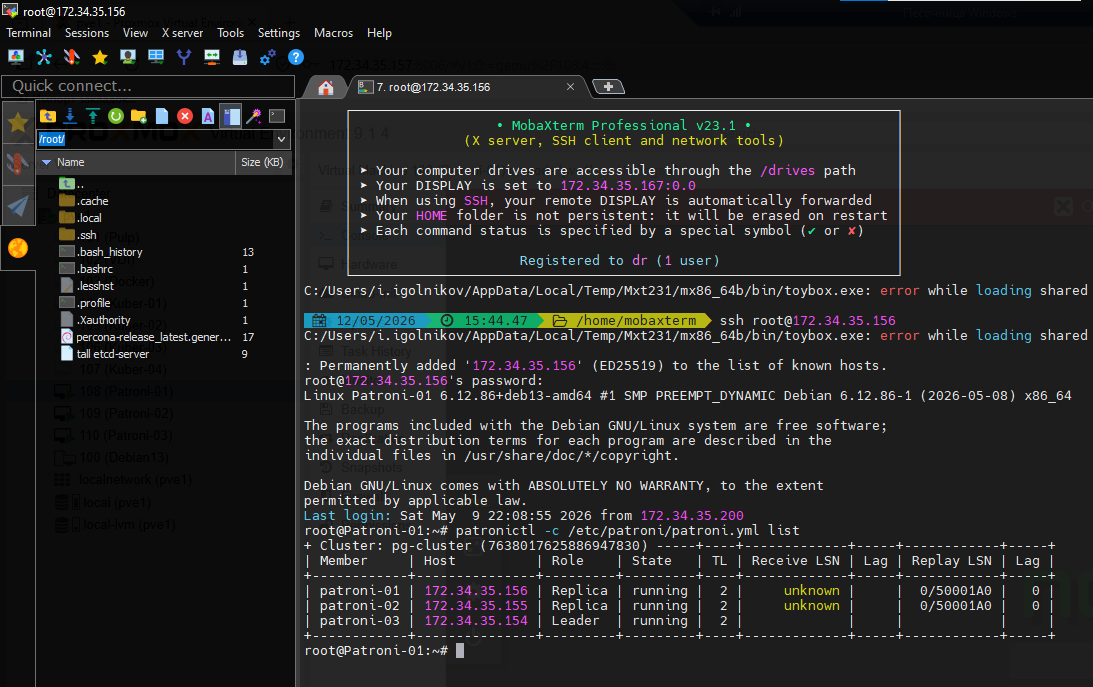
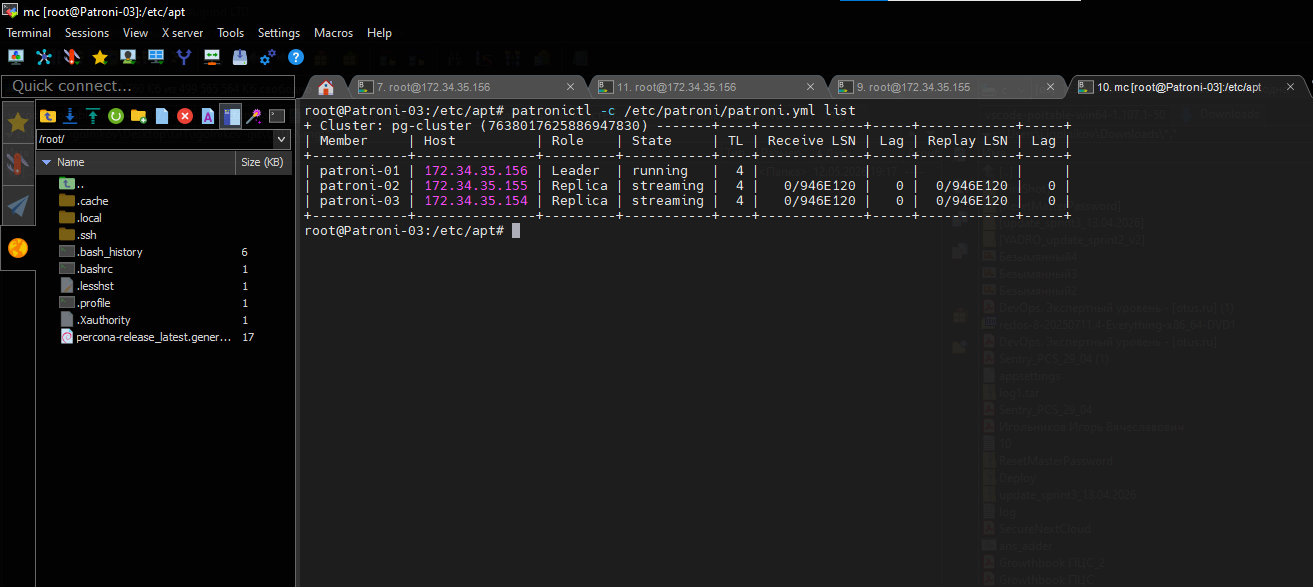
tutorial-01

diff --git a/Введение в PostgreSQL в облаках технологии для современных DBA/README.md b/Введение в PostgreSQL в облаках технологии для современных DBA/README.md
@@ -6,5 +6,42 @@
 - научиться работать с ЯО;
 - научиться управлять уровнем изоляции транзакции в PostgreSQL;
 
+---------------------------------------------------------------
 
+### Создаем тестовую базу данных и таблицу из задачи с именем "shipments"
 
+![Альтернативный текст](img/0.png)
+
+Открываем бля теста транзакцию 
+`testdb=# BEGIN;`
+`BEGIN`
+
+Вносим изменения
+`testdb=*# insert into shipments(product_name, quantity, destination) values('sugar', 300, 'Asia');`
+`INSERT 0 1`
+
+пока мы не сделали commit во второй сессии изменений нет
+`testdb=# SELECT * FROM shipments;`
+` id | product_name | quantity | destination`
+`----+--------------+----------+-------------`
+`  1 | bananas      |     1000 | Euro`
+`  2 | coffee       |      500 | USA`
+`(2 rows)`
+
+после commita в из первой сессии во вторую пришли изменения
+`testdb=# SELECT * FROM shipments;`
+` id | product_name | quantity | destination`
+`----+--------------+----------+-------------`
+`  1 | bananas      |     1000 | Euro`
+`  2 | coffee       |      500 | USA`
+`  3 | sugar        |      300 | Asia`
+`(3 rows)`
+
+При использовании set transaction isolation level repeatable read; 
+данные не обновляются во второй сессии даже после commita.
+
+![Альтернативный текст](img/1.png)
+
+Уровень REPEATABLE READ создаёт снимок данных (snapshot) на момент начала транзакции.
+Сессия 2 видит базу данных такой, какой она была в момент выполнения BEGIN
+Даже если Сессия 1 сделает COMMIT, Сессия 2 всё равно не увидит новые данные до завершения своей транзакции.
